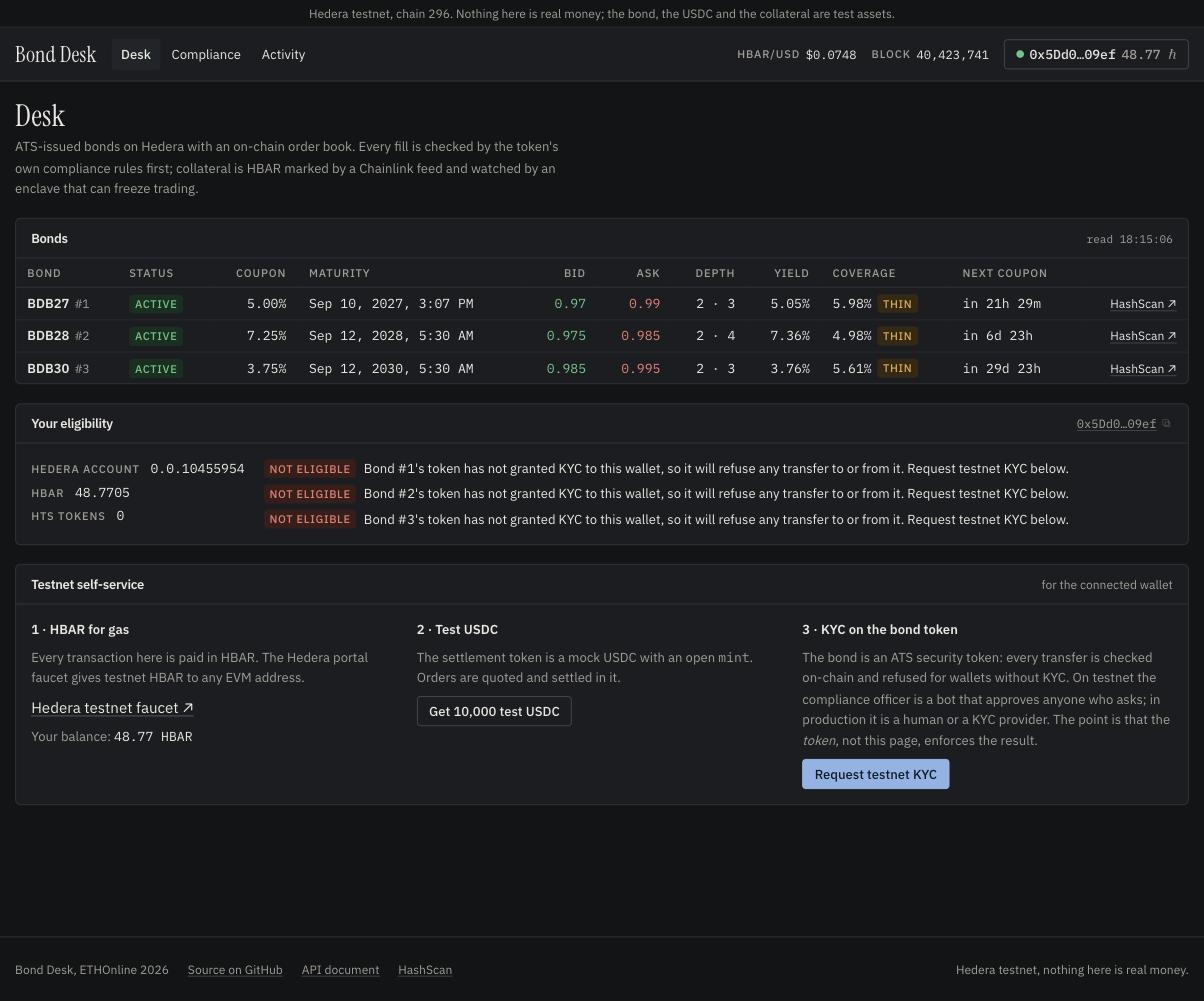
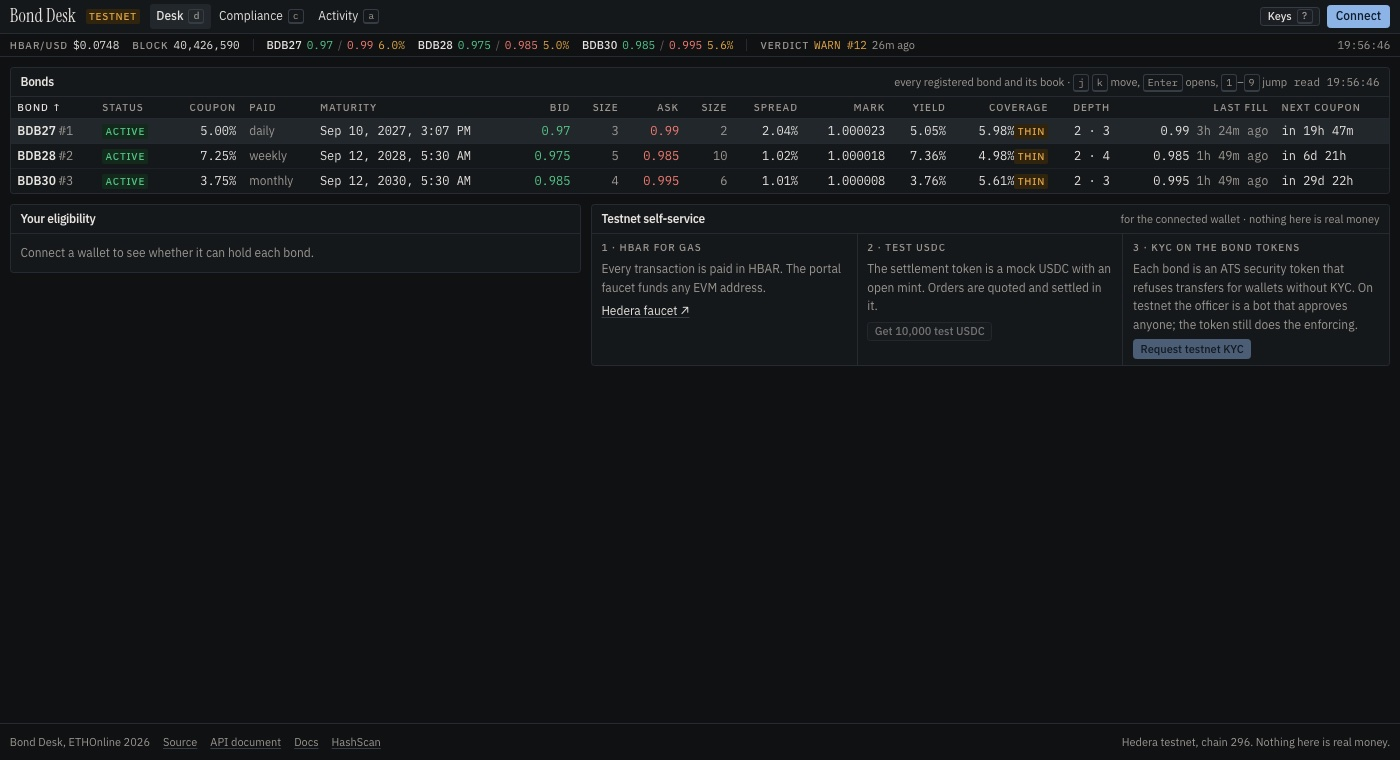
docs: the terminal desk in the README, the demo script and the screenshots

diff --git a/README.md b/README.md
@@ -336,23 +336,29 @@ The same origin that serves the API serves a browser app for every role in the s
 to any path gets the app; a `fetch`, `curl` or agent asking for JSON gets the JSON it always did, so `/bonds/1`
 is a page for a person and a document for a program.
 
+The app is built like a terminal: dark, dense, one screen per job, and driven from the keyboard as much as the
+mouse. A live strip under the header carries the HBAR/USD feed, the block, every book's quote and coverage and
+the last verdict; `?` lists the keys (`d` `c` `a` for the pages, `1`–`9` to open a bond, `j` `k` `Enter` on the
+desk grid, `[` `]` between a bond's tabs, `b` `s` for the side of an order, `↑` `↓` to nudge its price,
+`Enter` to place or fill, `Esc` to cancel). Shortcuts pause while a field has focus.
+
 | Page | What a wallet can do there |
 |---|---|
-| `/` | the front page: one statement, a live strip read from the API (bonds, best ask, coverage, last verdict with nonce, next coupon, block), two hand-drawn diagrams of how a fill is judged and how a freeze happens, four receipts with HashScan links, and the three doors (app, API, agents) |
-| Desk (`/desk`) | every bond with status, bid/ask/mark, coverage and next coupon; connect a wallet; get 10,000 test USDC from `MockUSDC`'s open mint |
-| Bond → Order book | one ladder per bond: asks down to the best ask, the spread and mid, bids from the best down, your own rows marked and cancellable, the fill form under the row it came from; trades from the mirror node with HashScan links |
+| `/` | the front page: one statement, a live strip read from the API (bonds, best ask, coverage, last verdict with nonce, next coupon, block), two hand-drawn diagrams of how a fill is judged and how a freeze happens, five receipts with HashScan links, and the three doors (app, API, agents) |
+| Desk (`/desk`) | one grid of every bond: status, coupon and interval, maturity, best bid and ask with the size at each, spread, mark, yield, coverage with its band, depth, last fill and next coupon, every column sortable; your eligibility per bond; get 10,000 test USDC from `MockUSDC`'s open mint and request testnet KYC |
+| Bond → Order book | one ladder per bond with cumulative size and a depth bar behind each row, asks down to the best ask, the spread and mid, bids from the best down, your own rows marked and cancellable, the fill form under the row it came from; the order form with the cost, fee and total worked out; trades from the mirror node with HashScan links |
 | Bond → Eligibility | whether *this* wallet may hold the bond and why not (no Hedera account, no KYC, bond not active); **testnet self-service KYC**: sign a one-line message, the API's compliance-officer bot grants or revokes KYC on the ATS token |
 | Bond → Coupons | every coupon with its snapshot and schedule, claim your share, and for the issuer: fund the pool, pay a coupon by hand, schedule the next one, redeem at maturity |
 | Bond → Collateral | vault balance, the live Chainlink HBAR/USD price, coverage; the issuer deposits and withdraws |
 | Bond → Risk | verdict history with nonces, the trusted signer, and *Relay a signed verdict*: paste the enclave's `VERDICT_JSON`, the app verifies the signature against `RiskGate.signer()` and any wallet submits it; admin unfreeze |
 | Compliance | the officer's desk on whichever bond token it picks: KYC status and freeze state per address, grant, revoke, freeze, unfreeze, and what `canTransferFrom` would answer right now |
-| Activity | every decoded event across the six contracts and the token, newest first |
+| Activity | every decoded event across the six contracts and the tokens, newest first, filtered by contract, by text, or to your own wallet |
 
 ![The front page: the statement, the live strip and the first diagram](docs/img/app-landing.jpg)
 
-![The desk: three bonds with bid, ask, depth, yield, coverage and the next coupon](docs/img/app-desk.jpg)
+![The desk: the live strip and one grid of three bonds with bid, ask, size, spread, mark, yield, coverage, depth, last fill and the next coupon](docs/img/app-desk.jpg)
 
-![Bond #2, order book: four asks and two bids from three makers, the spread and the mid, the fill form](docs/img/app-order-book.jpg)
+![Bond #2, order book: the ladder with cumulative size and depth bars, the spread and the mid, the order form](docs/img/app-order-book.jpg)
 
 ![Bond #1, risk gate: the last verdict, the verdict history with nonces, and the relay box](docs/img/app-risk.jpg)
 

diff --git a/docs/DEMO.md b/docs/DEMO.md
@@ -62,6 +62,11 @@ cast call "$TOKEN" 'getKycStatusFor(address)(uint8)' "$(jq -r .wallets.investorN
 needs. If investor 3 has KYC from a rehearsal, revoke it from the Compliance page (officer wallet) before
 recording; if the bond is `Frozen`, unfreeze it from the Risk tab (admin wallet).
 
+The app is a terminal: everything you would click has a key, and the keys read well on camera. `d` `c` `a` switch
+pages, `1`–`3` open a bond, `[` `]` move between its tabs, `j` `k` `Enter` walk the desk grid, `b` `s` pick the
+side of an order, `↑` `↓` nudge its price, `Enter` places or fills, `Esc` cancels; `?` shows the list. Shortcuts
+pause while a field has focus, so type an amount first and press `Enter` after.
+
 Screen setup: the app in one browser window at 125% zoom, MetaMask pinned; a second window with three tabs,
 the rendered `docs/architecture.md`, HashScan on `$TOKEN`, and
 `https://testnet.mirrornode.hedera.com/api/v1/schedules/0.0.10482928`; one terminal at ~18pt. Clear the
